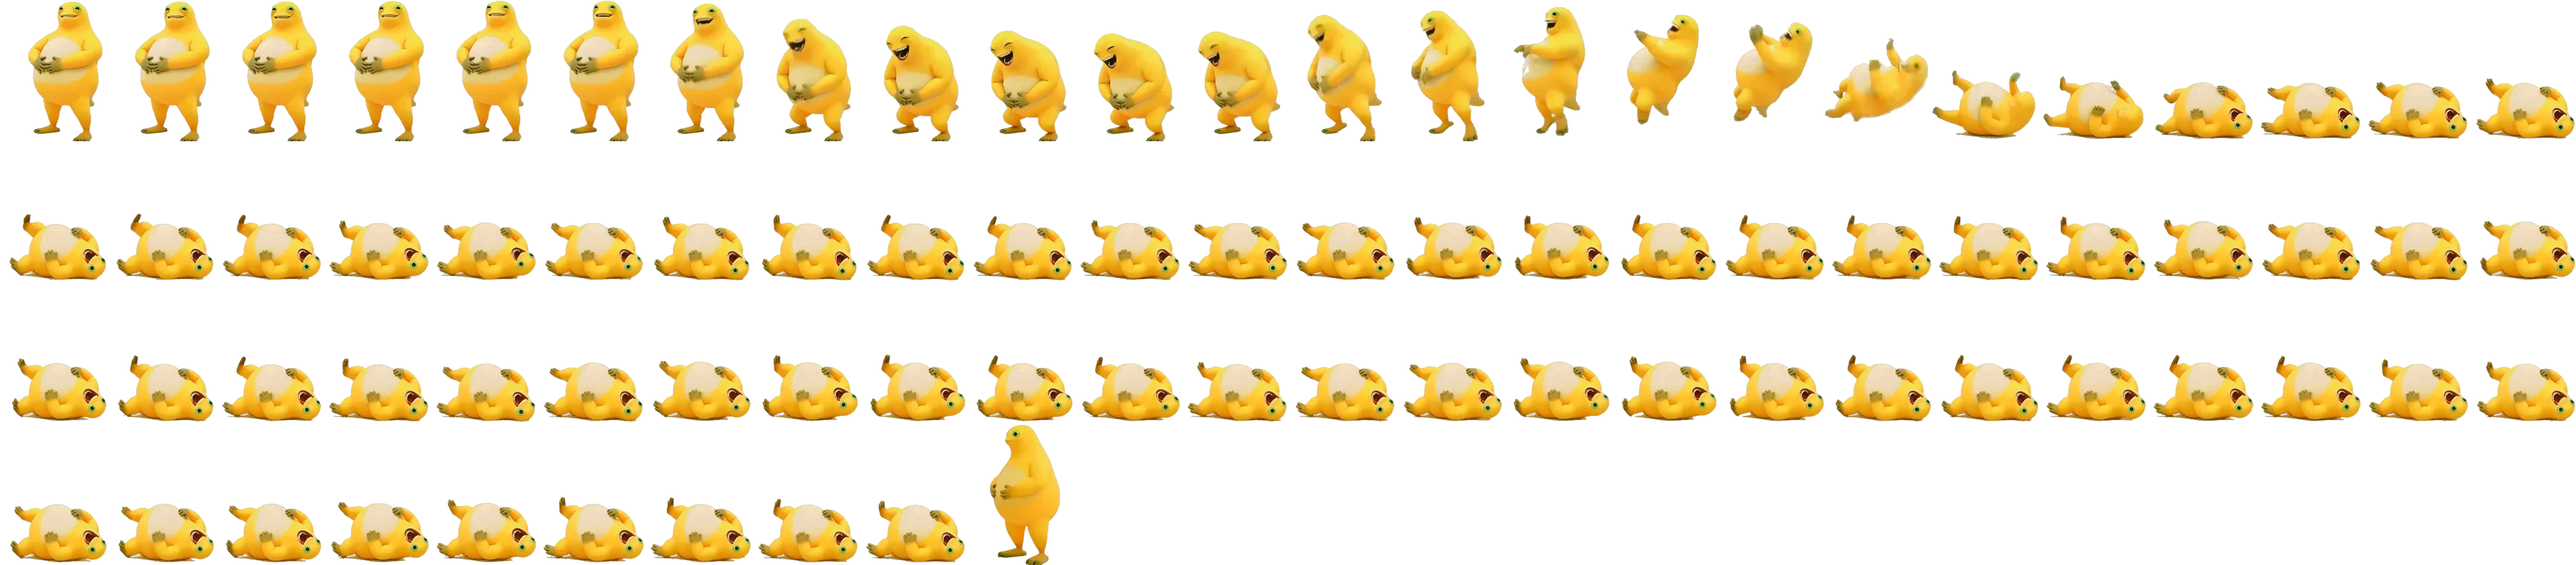
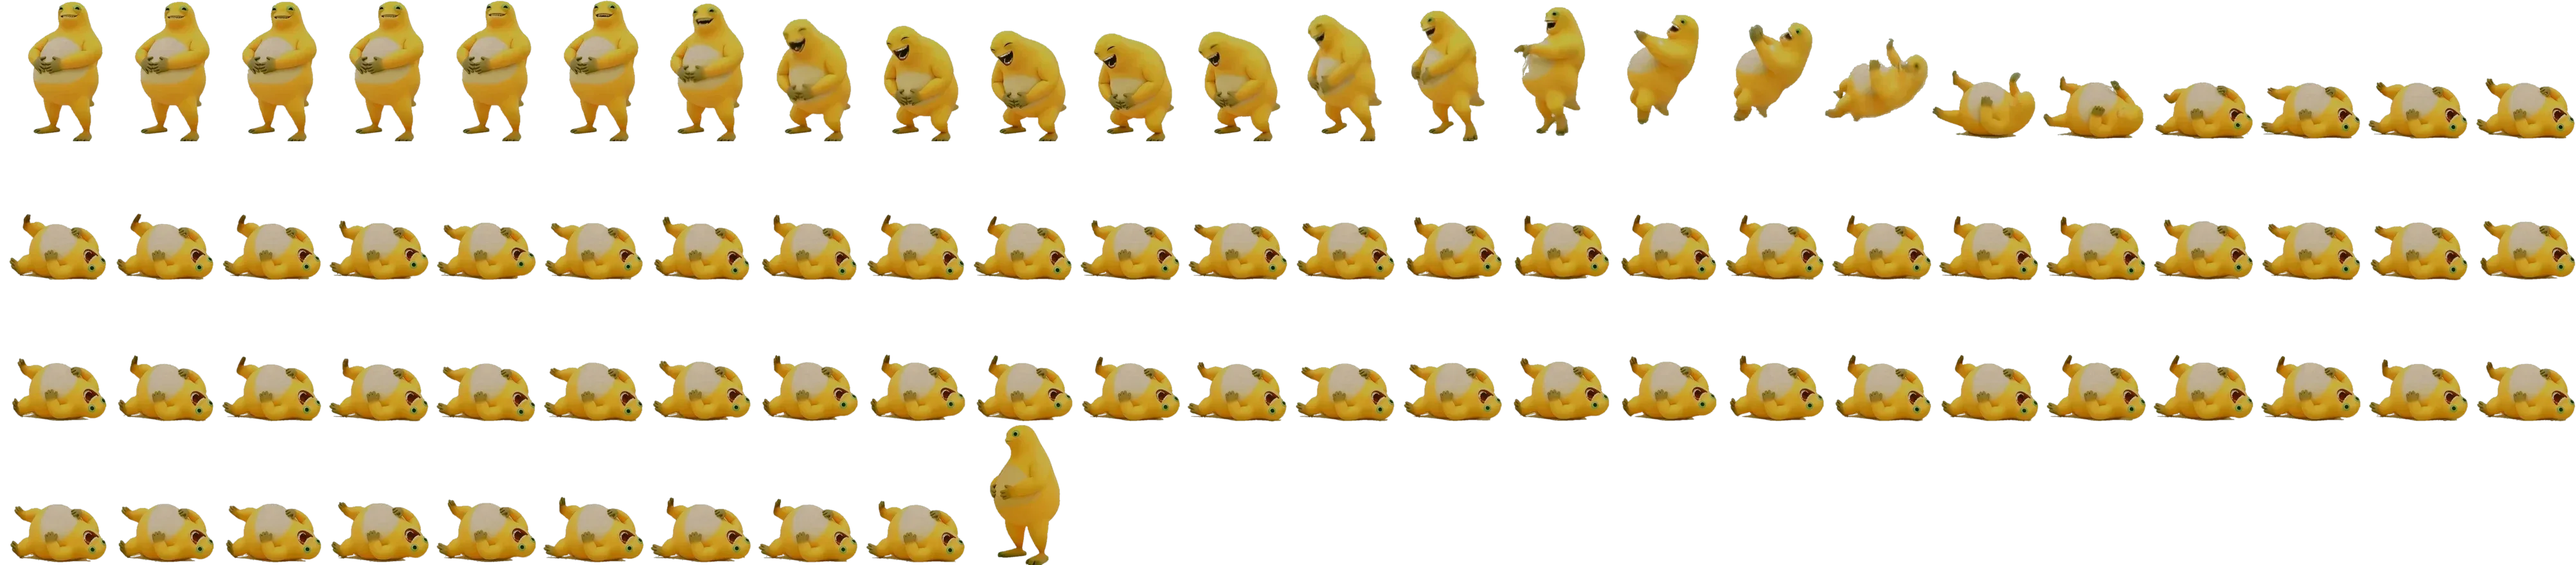
fix(deskpet): 挥手白边第二版（整圈外缘换本体色，局部环比 +22.66→+1.65）+ 打滚大笑按用户要求压暗 0.2

Changed region(s): [[0.0, 0.0, 1.0, 0.2455], [0.0, 0.6443, 1.0, 1.0], [0.0, 0.3989, 1.0, 0.4909]]

diff --git a/docs/状态.md b/docs/状态.md
@@ -6,6 +6,8 @@
 
 ## 一句话状态
 
+**2026-11-13 18:05（用户 m10701「打滚和大笑暗0.2看看；挥手的白边还是有，你再仔细扣一下」两件都已处理，分支 `deskpet-wave`，未合并、未打包）**——**挥手白边第二版**：上一版「边缘−内部差 3.14」的指标偏乐观，因为它拿整个不透明内部当分母（内部含大片亮肚皮）。换成**局部环比**（半透明带 `0.05<a<0.90` vs 紧贴边缘那一圈实心像素）重测，7.14 版其实是 **+8.66**，用户说「还是有」是对的。再挖一层发现真因不只是「抗锯齿混了背景白」——**素材本身在身体外缘就有 3~5px 宽的亮高光渐晕**（源帧距背景 1px `(251,237,224)`、3px `(228,190,153)`、5px `(187,122,66)`），所以 7.14 的「把内部颜色往外推」推的仍是这圈高光。走过的弯路：掩码内缩 6px 取色再加外推变成**黑边 −36.75**；按亮度差自适应混色 **−20.28**；以紧贴边缘的实心像素为色源外推 6 圈反而 **+22.66**（比 7.14 更差）；整图外推 400 圈 10 分钟跑不完。**最终修法**：不再区分「高光/本色」，直接把**整圈外缘（含外部透明区）的 RGB 全部换成本体色**——`core=MinFilter(25)(solid)` 内缩 12px 取可信本体、`spread(a,core,iters=20,step=2)` 外推填满全图、`rgb=body+delta`，alpha 只负责成形。关键：**透明区 RGB 也必须填本体色**，否则 LANCZOS 会把外部白背景卷进轮廓（第一版漏了这步，测出来还是 +77.58）。结果局部环比 **+22.66 → +1.65**，带中位 RGB `(223,148,44)`；用 **PNG / 无损 WebP / q84 WebP 三种存法分别测都是 +0.91 / +0.91 / +1.65** ⇒ 不是压缩引入的。成品 `bean-wave.webp` **250624 B**（比上版 268412 更小），尺寸 2958×440 / 17 列 × 2 行 / 每格 174×220 / 34 帧不变。**第二件：三支动作压暗 0.2**（用户「打滚和大笑暗0.2看看」）——RGB 乘 **0.8**、alpha 不动，逐 8 行分块避免内存峰值（`.tmp/fix3/darken.py`）；压暗后身体黄中位：站立 `(238,177,41)`、打滚 `(194,149,34)`、大笑 `(192,148,38)`、挥手 `(232,166,40)`，打滚/大笑约为站立的 **0.81~0.84 倍**，符合 0.8 预期。成品 `bean-roll.webp` **328466 B**（SHA256 `1BE6E4BE…B0E470`）、`bean-laugh.webp` **531944 B**（SHA256 `3761A765…2CFFDA7`）、`bean-wave.webp` **250624 B**（SHA256 `F8778325…045E7C9`）；备份 `.backups/bean-{roll,laugh,wave}.webp.bak.20261113-before-dark`。**[实测]** `npm run build` EXIT=0（`bean-laugh-DcL8Jz8z.webp 531.94 kB`）；`e2e-deskpet-out` **PASS（83 过 / 0 败）**；回归 `e2e-deskpet` 33/0、`e2e-m2` PASS、`e2e-head-order` 14/0、`e2e-collapse-order` 22/0、`e2e-settings-shell` 51/0。预览版重启后 vite 200、electron **PID 20832** 标题「灵动岛桌宠」。**未验证**：①手在 106×140 显示尺寸下是否还有可辨亮边（指标降了，仍需目视）②压暗 0.8 后打滚/大笑比站立暗一档是用户主动要的，但「暗一档好不好看」没标准 ③挥手现在比另两支亮约 1.2 倍，若用户要四支统一需再调方向。SPEC 见 `docs/Spec/SPEC-deskpet-action.md` 第 7.15 节。
+
[1 lines of base64/hex data omitted]
 
 **2026-11-13 16:52（第三支动作「挥手」已实现并通过自检，分支 `deskpet-wave`，未合并、未打包）**——用户 m10261 原话：「@d:\Users\honor\Downloads\kling_20261113_作品_一只圆滚滚的黄色小怪_3634_0.mp4 这个是挥手的，只要后半段，前面的不要」。**「后半段」到底从哪切（[实测]）**：素材 1280×720、24fps、121 帧、5.04 秒。逐帧测前景框与帧间运动量，发现**第 61 帧是一次硬切**——运动量从前面每帧 3~5 突增到 **34.33**，bbox 从 `y9-179 x59-290` 变成 `y13-169 x91-205` ⇒ 这视频是 AI 生成的两段拼接，**1~60 帧是另一个机位（身体偏左、景别不同），61~121 帧才是正面居中真正挥手**。**再细分**（测左上方深棕手部 `(99,68,29)` 的重心 x）：61~94 帧手在 x438~531 之间往返三轮（振幅 93px）是真挥手；**95 帧起手放下**（暗像素 3658→1455），121 帧几乎不动（运动量 0.03~0.1）。⇒ 只取 **61~94 共 34 帧（约 1.4 秒）**，末尾 27 帧放进去会白占 1.1 秒。**抠图**：背景纯色 `(242,240,236)`、`bg=(ch<18)&(mn>228)` 命中 84.18%；**右下角有「可灵AI」水印，必须 `bg[560:,600:]=True` 强制算背景**；`BOX=(300,30,870,700)`，四边泛洪 + 8 连通取最大块 + `GaussianBlur(1.2)` + `fill_transparent(r=7,iters=3)` + 过渡带反算去白 `rgb=(c-(1-aa)*B)/max(aa,1e-3)`。并集包围盒 `U=(34,20,534,651)` 500×631。**成品**：`src/renderer/src/assets/pet/bean-wave.webp` = **2958×440、17 列 × 2 行、每格 174×220、34 帧、WebP q84、260900 B**；颜色统一到站立正面基准（位移 `(+14,+16,+6)`，素材身体黄中位 `(224,157,37)` → `(238,173,43)`）。**代码**：`types.ts` 的 `PetAction` 加 `'wave'`；`skinPhoto.tsx` 加 `WAVE_COLS=17`/`WAVE_FRAMES=34`/`WAVE_CELL_RATIO=174/220` 与 `ACTION_SPECS.wave`；`preload/index.ts` 的 `onPetAction` 类型加 `'wave'`；`petWindow.ts` 右键菜单「打个滚」后加「挥挥手」。**e2e 新增 P9l-0~P9l-7 八条**（`data-pet-action` 变 wave / 17 列 34 帧 / 帧推进 / 格宽按 174-220 从源码正则读不写死 / 按自己 2.3 秒复位 / 素材落盘 >200KB / 菜单标签与 send 成对）。**本轮最大的坑**：第一次跑 e2e 时 P9l-1~P9l-5 与 P9j-2/P9j-3 全红，报 `{"实际":""}`——**不是代码错，是 e2e 加载 `out/` 构建产物而我只改了 `src/`，没跑 `npm run build`**；构建后 83 过 0 败全绿。**[实测]** `npm run typecheck` EXIT=0、`npm run build` EXIT=0（`bean-wave-CEd88SRT.webp 260.90 kB`）；`e2e-deskpet-out` **PASS（83 过 / 0 败）**；回归 `e2e-deskpet` 33/0、`e2e-head-order` 14/0、`e2e-collapse-order` 22/0、`e2e-settings-shell` 51/0、`e2e-m2` PASS。**未验证**：①真人观感（2.3 秒挥手是否太快、振幅够不够）②34 帧这个切点是本鱼鱼按运动量定的，用户只说「只要后半段」。SPEC 见 `docs/Spec/SPEC-deskpet-action.md` 第 7.13 节。
@@ -98,20 +100,22 @@
 
 ## 下次开工先做什么
 
-> **2026-11-13 16:52 现状**：`main` = **`6e99d0c`**（已合并 `deskpet-action2`，含打滚、牙齿/身体修复、三支颜色统一、黄斑修复、焦点环、图标 `ldapp://`、横幅推送）。**「挥手」这一支在新分支 `deskpet-wave` 上，待用户看过再合并**。装机版 `D:\软件\灵动岛\` 还是 2026-11-12 20:51 的包，**落后 `main` 一整批 + 本分支**。
+> **2026-11-13 18:05 现状**：`main` = **`6e99d0c`**（已合并 `deskpet-action2`，含打滚、牙齿/身体修复、三支颜色统一、黄斑修复、焦点环、图标 `ldapp://`、横幅推送）。**「挥手」这一支在新分支 `deskpet-wave` 上，待用户看过再合并**。装机版 `D:\软件\灵动岛\` 还是 2026-11-12 20:51 的包，**落后 `main` 一整批 + 本分支**。
 > **开发预览版需要重启**，命令见下面「关键环境」；跑 e2e 前先 `Get-Process electron | Stop-Process -Force`。**用户要求只开预览版、不开安装版**（2026-11-13 m07247），开预览版前先杀掉 `D:\软件\灵动岛\灵动岛.exe` 的进程。
 > **改完 `src/` 必须先 `npm run build` 再跑 e2e**——e2e 加载的是 `out/` 构建产物，只改 `src/` 会得到一片假红（2026-11-13 挥手那一轮就撞了：P9l-1~P9l-5 与 P9j-2/P9j-3 全红，构建后 83/0 全绿）。
 >
 > - `deskpet-wave` 上的提交：`dd42709`（打滚）起的十来个已全部合进 `main`，本分支只有「挥手」这一项改动。
-> - **`deskpet-wave` 分支上比 `main` 多什么**：`src/renderer/src/assets/pet/bean-wave.webp`（**2958×440、17 列 × 2 行、每格 174×220、34 帧、268412 B**）、`PetAction` 加 `'wave'`、`skinPhoto.tsx` 的 `WAVE_COLS=17`/`WAVE_FRAMES=34`/`WAVE_CELL_RATIO=174/220` 与 `ACTION_SPECS.wave`、`preload` 的 `onPetAction` 类型加 `'wave'`、`petWindow.ts` 右键菜单第三项「挥挥手」、e2e P9l-0~P9l-7。
+> - **`deskpet-wave` 分支上比 `main` 多什么**：`src/renderer/src/assets/pet/bean-wave.webp`（**2958×440、17 列 × 2 行、每格 174×220、34 帧、250624 B**）、`PetAction` 加 `'wave'`、`skinPhoto.tsx` 的 `WAVE_COLS=17`/`WAVE_FRAMES=34`/`WAVE_CELL_RATIO=174/220` 与 `ACTION_SPECS.wave`、`preload` 的 `onPetAction` 类型加 `'wave'`、`petWindow.ts` 右键菜单第三项「挥挥手」、e2e P9l-0~P9l-7。
 > - **[实测]** `deskpet-wave` 上的数字：typecheck EXIT=0、build EXIT=0、`e2e-deskpet-out` **PASS（83 过 / 0 败）**、`e2e-deskpet` 33/0、`e2e-m2` PASS、`e2e-head-order` 14/0、`e2e-collapse-order` 22/0、`e2e-settings-shell` 51/0。
-> - **挥手白描边已修（2026-11-13 17:00，用户 m10619「挥手又白色描边，扣仔细点」）**：真因不是缩放方式，而是**边缘半透明像素里混着背景白 `(242,240,236)`**——`fill_transparent` 只处理 alpha 很小的透明区，抗锯齿带没被换色。四种缩放对照（直接 LANCZOS / 预乘 / BOX / 预乘+BOX）都只从 52.05 降到 27.99，等于没用；**有效修法是边缘颜色外推** `outward_fill(a, alpha>=0.90, iters=8, r=3)`，把不透明内部颜色推向半透明边缘，边缘−内部亮度差 **52.05 → 3.14**、近白像素 **40.3% → 0.4%**（205/52289）。成品 260900 → **268412 B**，尺寸格数不变，重建两次 SHA256 都是 `CEA99E69…0B358A`（可复现）。旧版备份 `.backups/bean-wave.webp.bak.20261113-before-rim`。正式脚本 `.tmp/wave_build_final.py`。
+> - **挥手白描边修了两版（2026-11-13 17:00 第一版被用户否掉，18:05 第二版）**：第一版用「边缘−内部亮度差 52.05→3.14」验收，用户 m10701 说「还是有」——因为那个指标拿整个不透明内部当分母（内部含大片亮肚皮），偏乐观；换局部环比（半透明带 vs 紧贴边缘的实心环）重测第一版其实是 **+8.66**。第二版发现真因更深：**素材身体外缘自带 3~5px 亮高光渐晕**（距背景 1px `(251,237,224)`、3px `(228,190,153)`、5px `(187,122,66)`），第一版外推推的仍是这圈高光。最终修法：`core=MinFilter(25)(solid)` 内缩 12px 取可信本体 → `spread(a,core,iters=20,step=2)` 外推填满全图 → `rgb=body+delta`，**透明区 RGB 也必须填本体色**（否则 LANCZOS 把外部白卷进来）。局部环比 **+22.66 → +1.65**，带中位 RGB `(223,148,44)`；PNG/无损 WebP/q84 WebP 三种存法测得都是 +0.91/+0.91/+1.65（不是压缩引入）。成品 **250624 B**（SHA256 `F8778325…045E7C9`），尺寸格数不变。脚本 `.tmp/wave_rim9.py`（`wave_rim11.py` 是加 PNG/无损对照的变体）。
+> - **三支动作已按用户要求压暗 0.2**（m10701「打滚和大笑暗0.2看看」）：RGB 乘 0.8、alpha 不动，压暗后身体黄中位 站立 `(238,177,41)` / 打滚 `(194,149,34)` / 大笑 `(192,148,38)` / 挥手 `(232,166,40)`——打滚大笑约为站立 0.81~0.84 倍。`bean-roll.webp` **328466 B**（`1BE6E4BE…B0E470`）、`bean-laugh.webp` **531944 B**（`3761A765…2CFFDA7`）。备份 `.backups/bean-{roll,laugh,wave}.webp.bak.20261113-before-dark`。脚本 `.tmp/fix3/darken.py`（**尚未提交**，就在当前工作区）。
 >
 > **用户实测反馈的问题已修完**（编号连续沿用，1~17 见 git 历史与 SPEC 第 7.x 节；下面只留最近三条的要点）：
 > 15. 「牙齿没了」「身体不完整」——牙齿真因是背景判据 `bg=(ch<20)&(mn>235)` 把亮白牙齿判成背景（插桩实测吃掉 160/336 px），修法是先算 `teeth_mask` 保护口腔；「身体不完整」实测只有边缘收细 1~2%，元凶是 `MinFilter(3)` 每帧吃 2400~3300 px，已关掉。
 > 16. 「牙齿扣的太过了，还把眼睛给扣白了」——瞳孔自己就是「被围暗块且亮度中位<45」，混进口腔候选后膨胀 16px 把眼白圈进去一起提亮。改成只取面积最大的那一个暗腔，且 `TEETH_BOOST=0.0` 完全不提亮。
 > 17. 「颜色有点暗了，三个全部统一一下」+「肚皮上面会有黄色」——亮度用分位划分段映射对齐到站立分布（打滚/大笑 暗部占比 18%/13% → 6.3%/6.4%）；黄斑是分档匹配的副作用（肚皮渐变跨多档出现断层），改成**连续不分档**的色相校正（只往橙调拉、限幅 −26°），斑驳度打滚 2.48→1.93、大笑 2.73→2.02。
-> 18. 「挥手又白色描边，扣仔细点」——边缘抗锯齿带混进背景白，四种缩放方式都无效（最好也只降一半），改成把不透明内部颜色外推到半透明边缘；边缘−内部亮度差 52.05→3.14、近白占比 40.3%→0.4%。
+> 18. 「挥手又白色描边，扣仔细点」——第一版用「边缘−内部亮度差 52.05→3.14」通过，用户 m10701 否掉；真因是素材自带 3~5px 边缘高光渐晕，第二版把整圈外缘（含透明区）RGB 全换成本体色，局部环比 +22.66→+1.65。
+> 19. 「打滚和大笑暗0.2看看」——RGB 乘 0.8、alpha 不动，打滚/大笑身体黄约为站立的 0.81~0.84 倍。
 >
 > **3D 问题已落地为第二条路**：用户先选第一条（真 3D），看过排期后改选第二条（四视图切换伪 3D）。已实现四视图转身，**以后想上真 3D 只需再增加一套皮肤，不推翻这一轮的任何东西**（`PetSkin` 接口不变；Blender 4.5.10 已装，`.tmp/webgl-probe.html` 实测透明窗口里 WebGL2 60 帧、背景真透明，平台无障碍）。
 >

diff --git a/docs/Spec/SPEC-deskpet-action.md b/docs/Spec/SPEC-deskpet-action.md
@@ -762,3 +762,74 @@ edgefill+预乘    270504 B   边缘−内部亮度差 −12.91  偏白占比 13
 **未验证**：①真人观感——白边是量化指标降下来了，但用户在真实桌面上看到的是
 106×140 的显示尺寸，需用户目视确认 ②浅色桌面壁纸下是否还有残余亮边
 （浅底对照图看是没有，但那是放大 8 倍的静态图，不等于运行时观感）。
+
+### 7.15 白边第二版：上一版的指标偏乐观（第十轮返工）
+
+用户 2026-11-13 17:19 原话：「打滚和大笑暗0.2看看；挥手的白边还是有，你再仔细扣一下」。
+
+**上一版为什么没过（[实测]）**：7.14 那份「边缘−内部差 3.14」是拿「整个不透明内部」当分母，
+内部含大片亮奶白肚皮，把差值摊薄了。换成**局部环比**——半透明带 `0.05<a<0.90` 对比
+「紧贴边缘那一圈实心像素」（`solid` 减 `MinFilter(3)` 腐蚀一环）——重测：
+
+```
+修白边前  +79.21
+7.14 版   +8.66      ← 用户说「还是有」是对的
+```
+
+**再挖一层真因**：不只是「抗锯齿带混了背景白」，**素材本身在身体外缘就有 3~5px 宽的亮高光渐晕**。
+按到背景的距离量源帧 `.tmp/wave/070.png` 的颜色：
+
+```
+距背景 1px (251,237,224)   3px (228,190,153)   5px (187,122,66)   7px (190,112,38)
+      9px (197,112,29)    11px (201,113,26)   15px (205,119,25)
+```
+
+也就是说 7.14 的「把内部颜色往外推」推的仍是这圈高光，等于把亮边又铺了一遍。
+
+**走过的弯路（都别重试）**：
+- 掩码先内缩 6px 取本体色再外推（`.tmp/wave_rim5.py`）：偏白压到 0.1%，但边缘反比内部暗 **−36.75**，变成黑边。
+- 按亮度差自适应混色（`.tmp/wave_rim6.py`，`LO,HI=12,44`）：差 **−20.28**，仍偏暗。
+- 以「紧贴边缘的实心像素」为色源外推 6 圈（`.tmp/wave_rim7.py`）：局部环比 **+22.66**，比 7.14 更差。
+- 整图外推 400 圈：10 分钟跑不完，不可行。
+
+**最终修法（`.tmp/wave_rim9.py` / 落地脚本 `.tmp/wave_rim11.py`）**——不再区分「高光/本色」，
+直接把**整圈外缘（含外部透明区）的 RGB 全部替换为本体色**：
+
+```python
+solid = alpha >= 250
+core  = MinFilter(2*12+1)(solid)        # 内缩 12px 取「可信本体」
+body  = spread(a, core, iters=20, step=2)   # 逐圈外推填满全图
+rgb   = body + delta                    # 全图都是本体色，alpha 负责成形
+```
+
+关键点：**透明区的 RGB 也必须填成本体色**，否则 LANCZOS 缩小时会把外部白背景卷进轮廓
+（第一版只替换图案内部、留着透明区白 RGB，测出来还是 +77.58）。
+
+**结果（[实测]）**：局部环比 **+22.66 → +1.65**；带中位 RGB `(223,148,44)`（身体黄，不再是白）。
+用 PNG / 无损 WebP / q84 WebP 三种存法分别测，差值都是 +0.91 / +0.91 / +1.65
+⇒ **不是压缩引入的，是像素本身就对了**。成品 **250624 B**（比 7.14 的 268412 B 更小），
+尺寸仍是 2958×440 / 17 列 × 2 行 / 每格 174×220 / 34 帧。
+
+**同一轮的第二件事：三支动作按用户要求压暗 0.2（[实测] `.tmp/fix3/darken.py`）**。
+用户原话「打滚和大笑暗0.2看看」，做法是 RGB 乘 **0.8**（alpha 不动），
+逐 8 行分块避免内存峰值。压暗后身体黄中位：
+
+```
+bean-photo.png（站立基准）  (238,177,41)
+bean-roll.webp              (194,149,34)
+bean-laugh.webp             (192,148,38)
+bean-wave.webp              (232,166,40)
+```
+
+⇒ 打滚/大笑约为站立基准的 **0.81~0.84 倍**，符合 0.8 的预期（另有一小截差异来自
+「只乘 RGB 不动 alpha」与中位色本身的分布形状）。备份 `.backups/bean-*.bak.20261113-before-dark`。
+
+**验证（[实测]）**：`npm run build` EXIT=0（`bean-laugh-DcL8Jz8z.webp 531.94 kB`）；
+`e2e-deskpet-out` **PASS（83 过 / 0 败）**；回归 `e2e-deskpet` 33/0、`e2e-m2` PASS、
+`e2e-head-order` 14/0、`e2e-collapse-order` 22/0、`e2e-settings-shell` 51/0。
+预览版重启后 vite 200、electron PID 20832 标题「灵动岛桌宠」。
+
+**未验证**：①真人观感——指标从 +22.66 降到 +1.65，但手在 106×140 显示尺寸下是否还有
+可辨亮边，仍需用户目视 ②压暗 0.8 之后打滚/大笑会比站立明显暗一档，这是用户主动要的，
+但「暗一档是否好看」没有标准 ③挥手与打滚/大笑之间现在有约 1.2 倍亮度差，
+如果用户希望四支统一，需要再调一次方向。
